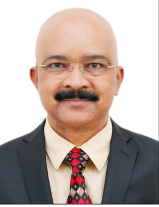
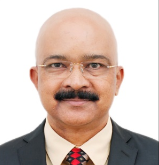
Updates image format for Dr. Siby James on Governing Body page
Updates image format for Dr. Siby James on Governing Body page

Replaces Dr. Siby James image format from webp to jpg on the Governing Body page

diff --git a/client/src/pages/GoverningBodyPage.jsx b/client/src/pages/GoverningBodyPage.jsx
@@ -1,7 +1,7 @@
 import React from 'react';
 
 //? images
-import Dr_Siby_James from '../assets/Dr-Siby-James.webp';
+import Dr_Siby_James from '../assets/Dr-Siby-James.jpg';
 import R_Venkitchalam from '../assets/DGs-photo.jpg';
 import Cpt_Babu_Joseph from '../assets/Gp-Capt-Babu-Joseph.png';
 
